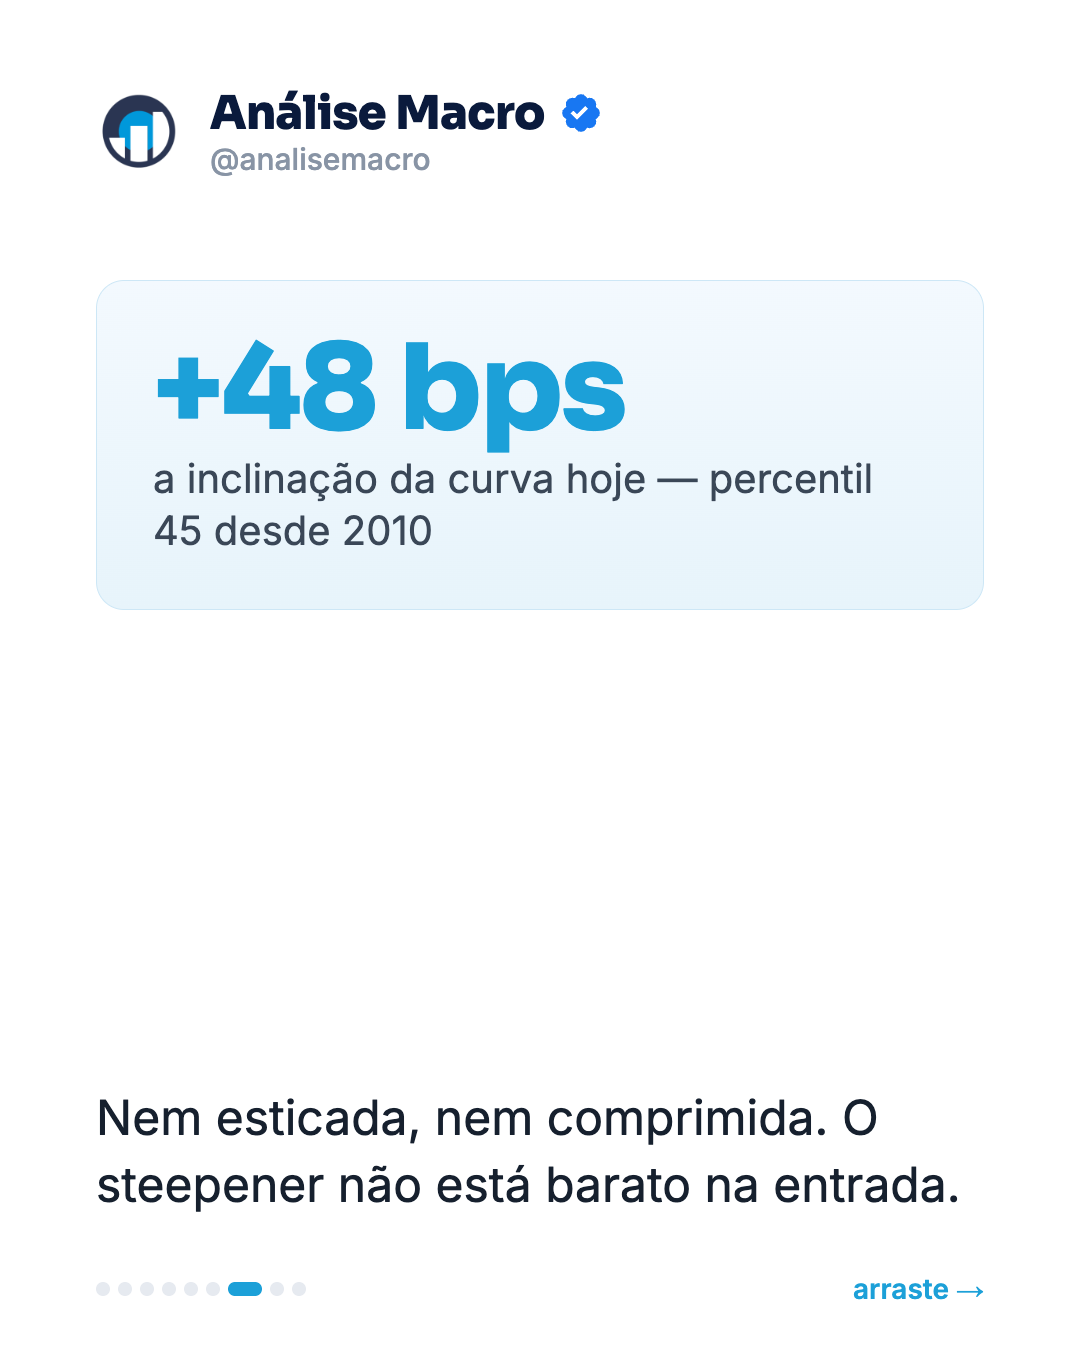
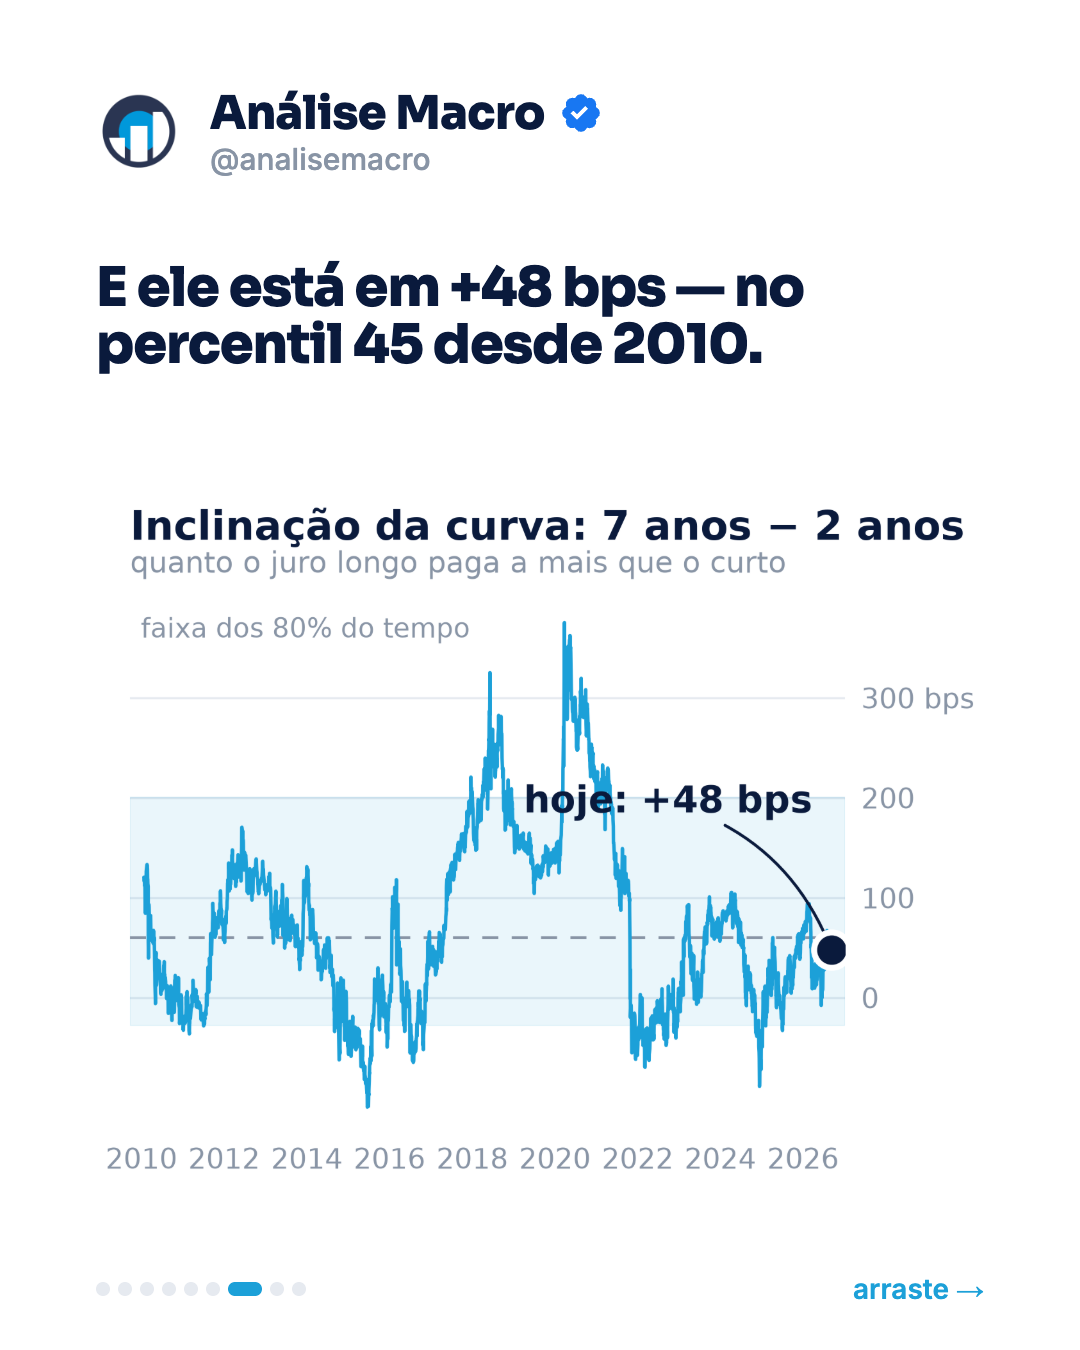
fix: o carrossel não dizia o que o gráfico era
Pergunta do Vitor: "o que esse carrossel está dizendo? o que é esse gráfico?".
A resposta honesta era que o slide não dizia.

Dois erros, e o segundo era meu de origem:

1. Gráfico sem identificação
Ao "limpar para o feed" eu havia removido os títulos dos gráficos — e com eles o
sentido. A capa mostrava uma série de 16 anos sem dizer o que estava no eixo Y.
Agora todo gráfico leva título e subtítulo dizendo o que a MEDIDA é ("Inclinação
da curva: 7 anos − 2 anos" / "quanto o juro longo paga a mais que o curto"). Num
carrossel não há legenda nem texto de apoio: o gráfico se apresenta sozinho.

2. A capa prometia uma história e entregava outra
A manchete fala de quatro gestoras e inflação; o gráfico era sobre inclinação de
curva, que só faz sentido depois de explicar o que é um steepener — no slide 5.
Reordenado: a capa agora traz a divergência do Copom, que é o que a manchete
promete, com cada casa nomeada na ponta da sua linha. Os gráficos de curva vêm
nos slides 6 e 7, depois do steepener explicado.

A regra que passa a organizar a ordem: nenhum gráfico aparece antes de o leitor
ter contexto para lê-lo.

O gráfico da capa é ilustrativo do conceito — as cartas dizem a direção, não uma
trajetória ponto a ponto. Por isso o eixo x é relativo (hoje, +6m, +12m) e não
afirma data nem valor futuro. A ressalva está no .md.

30 testes passando.

diff --git a/divulgacao/carrossel.py b/divulgacao/carrossel.py
@@ -62,6 +62,62 @@ def _limpar(ax, eixo_y_direita: bool = True):
         ax.yaxis.tick_right()
 
 
+def _titulo(ax, titulo: str, medida: str):
+    """Título + o que a medida É — sem isso o gráfico não se explica sozinho.
+
+    Ao "limpar para o feed" eu havia removido os títulos, e a capa virou uma
+    série de 16 anos sem dizer o que estava no eixo. Num carrossel o leitor não
+    tem legenda nem texto de apoio: o gráfico precisa se apresentar.
+    """
+    ax.set_title(titulo, fontsize=30, color=NAVY, fontweight="bold",
+                 loc="left", pad=44)
+    ax.text(0, 1.035, medida, transform=ax.transAxes,
+            fontsize=22, color=MUTED, va="bottom")
+
+
+def grafico_divergencia() -> str:
+    """A capa: o racha do Copom, que é o que a manchete promete.
+
+    Ilustração do CONCEITO — as cartas dizem a direção ("ciclo segue" × "pausa"),
+    não uma trajetória ponto a ponto. Por isso o gráfico não leva escala de data
+    fechada nem afirma valores futuros: mostra a forma da divergência.
+    """
+    import matplotlib
+    matplotlib.use("Agg")
+    import matplotlib.pyplot as plt
+
+    meses = list(range(7))
+    rotulos = ["hoje", "", "+6m", "", "+12m", "", "+18m"]
+    ciclo = [14.00, 13.75, 13.50, 13.25, 13.00, 12.75, 12.50]
+    pausa = [14.00, 14.00, 14.00, 13.75, 13.50, 13.25, 13.00]
+
+    fig, ax = plt.subplots(figsize=(9.6, 7.0))
+    ax.fill_between(meses, ciclo, pausa, color=BLUE, alpha=0.10, zorder=1)
+    ax.plot(meses, ciclo, color=BLUE, lw=6, marker="o", markersize=13,
+            solid_capstyle="round", zorder=3)
+    ax.plot(meses, pausa, color=NAVY, lw=6, marker="o", markersize=13,
+            linestyle=(0, (5, 3)), solid_capstyle="round", zorder=3)
+
+    ax.text(6.15, ciclo[-1], "Bahia\nOccam\nLegacy", fontsize=24, color=BLUE,
+            fontweight="bold", va="center", linespacing=1.2)
+    ax.text(6.15, pausa[-1], "Kinea", fontsize=24, color=NAVY,
+            fontweight="bold", va="center")
+    ax.annotate("a pausa", (2, 14.0), xytext=(1.75, 14.30), fontsize=25,
+                color=NAVY, fontweight="bold", ha="center",
+                arrowprops=dict(arrowstyle="-", color=MUTED, lw=2))
+
+    _limpar(ax, eixo_y_direita=False)
+    ax.set_xticks(meses)
+    ax.set_xticklabels(rotulos)
+    ax.set_yticks([12.5, 13.0, 13.5, 14.0])
+    ax.set_yticklabels(["12,5", "13,0", "13,5", "14,0%"])
+    ax.set_xlim(-0.3, 8.3)
+    ax.set_ylim(12.2, 14.55)
+    _titulo(ax, "Duas leituras da mesma inflação",
+            "para onde vai a Selic, segundo cada casa")
+    return _fig_para_uri(fig)
+
+
 def dados_do_exercicio() -> dict:
     """Roda a parte de DADOS do exercício da edição mais recente.
 
@@ -154,6 +210,8 @@ def grafico_historico(d: dict) -> str:
     ax.margins(x=0.02)
     ax.set_yticks([0, 100, 200, 300])
     ax.set_yticklabels(["0", "100", "200", "300 bps"])
+    _titulo(ax, "Inclinação da curva: 7 anos − 2 anos",
+            "quanto o juro longo paga a mais que o curto")
     return _fig_para_uri(fig)
 
 
@@ -195,18 +253,23 @@ def grafico_curva(d: dict) -> str:
     ax.set_xticks([])
     ax.set_yticks([13.6, 14.0, 14.4])
     ax.set_yticklabels(["13,6", "14,0", "14,4%"])
+    _titulo(ax, "A curva de juros hoje",
+            "taxa dos prefixados do Tesouro, por prazo")
     return _fig_para_uri(fig)
 
 
 def slides(d: dict) -> list[dict]:
-    """Os 9 slides. Abre com CENA (nível 1-2 de consciência), fecha em salvamento.
+    """Os 9 slides, na ordem em que a história se sustenta.
 
-    Bullets, não parágrafos: no feed o texto compete com o polegar. Os dois
-    gráficos são os MESMOS do exercício da edição, redesenhados em retrato.
+    A regra que organiza tudo: **nenhum gráfico aparece antes de o leitor ter
+    contexto para lê-lo**. A capa mostra a divergência entre as casas, que é o
+    que a manchete promete; o gráfico da inclinação da curva só entra depois do
+    slide que explica o que é um steepener — antes disso, "48 bps" não significa
+    nada para quem passa o polegar.
 
-    Sem preço e sem oferta — o público do Instagram está no topo do funil, e
-    entregar nível 5 a quem está no 2 é o erro documentado que rendeu 174
-    mensagens e zero respostas na campanha de Claude Code T2.
+    Bullets, não parágrafos. Sem preço e sem oferta: o público está em nível 1-2
+    de consciência, e nível 5 no primeiro toque é o erro documentado que rendeu
+    174 mensagens e zero respostas na campanha de Claude Code T2.
     """
     bps = f"{d['atual_bps']:.0f}"
     pct = f"{d['percentil']:.0f}"
@@ -214,7 +277,7 @@ def slides(d: dict) -> list[dict]:
         {
             "kind": "capa",
             "hook": "Quatro gestoras leram a *mesma* inflação. Duas fizeram a aposta oposta.",
-            "src": grafico_historico(d),
+            "src": grafico_divergencia(),
         },
         {
             "kind": "lista",
@@ -251,30 +314,30 @@ def slides(d: dict) -> list[dict]:
             "variant": "diamond",
             "items": [
                 "Bahia e Occam carregam o mesmo trade",
-                "*Steepener:* aposta em que o juro longo sobe mais que o curto",
+                "*Steepener:* ganham se o juro longo subir mais que o curto",
                 "A pausa da Kinea é o cenário em que a perna curta perde",
             ],
         },
         {
             "kind": "capa",
-            "hook": "Dá para medir *quanto* dessa aposta já está no preço 👇",
+            "hook": "É esse *degrau* que elas estão comprando 👇",
             "hint": False,
             "src": grafico_curva(d),
         },
         {
-            "kind": "dado",
-            "value": f"+{bps} bps",
-            "label": f"a inclinação da curva hoje — percentil {pct} desde 2010",
-            "note": "Nem esticada, nem comprimida. O steepener não está barato na entrada.",
+            "kind": "capa",
+            "hook": f"E ele está em +{bps} bps — no *percentil {pct}* desde 2010.",
+            "hint": False,
+            "src": grafico_historico(d),
         },
         {
             "kind": "lista",
-            "title": "Por que ler as *doze* juntas",
+            "title": "O que isso quer dizer",
             "variant": "diamond",
             "items": [
-                "Uma carta mostra a visão de uma casa",
-                "Doze mostram onde o mercado concorda",
-                "E onde a mesma leitura vira apostas incompatíveis",
+                "Nem esticado, nem comprimido: o degrau está na média histórica",
+                "Ou seja, a aposta *não* está barata na entrada",
+                "Dá para medir isso em Python, com dado público",
             ],
         },
         {

diff --git a/divulgacao/carrossel-instagram.md b/divulgacao/carrossel-instagram.md
@@ -24,30 +24,35 @@ que rendeu 174 mensagens e zero respostas em Claude Code T2.
 
 ## Os 9 slides
 
-**Bullets, não parágrafos** (pedido do Vitor em 09/09): no feed o texto compete com
-o polegar. E os dois gráficos são os **mesmos do exercício da edição**, redesenhados
-em retrato — não ilustrações.
+**A regra que organiza a ordem:** nenhum gráfico aparece antes de o leitor ter
+contexto para lê-lo. Foi o erro da versão anterior — a capa trazia a série da
+inclinação da curva enquanto a manchete falava de inflação e gestoras, e "48 bps"
+não significa nada para quem passa o polegar sem saber do que é a medida.
 
 | # | Tipo | Conteúdo |
 |---|---|---|
-| 1 | capa + **gráfico real** | "Quatro gestoras leram a mesma inflação. Duas fizeram a aposta oposta." — série da inclinação desde 2010, com o ponto de hoje |
-| 2 | lista ✓ | No que elas concordam: 4 bullets |
+| 1 | capa + gráfico | A divergência do Copom: duas trajetórias de Selic, cada casa nomeada na ponta da linha |
+| 2 | lista ✓ | No que elas concordam — 4 bullets |
 | 3 | lista | Onde racha: o Copom — 3 bullets |
 | 4 | definição | A diferença não é sobre inflação: Legacy/Occam × Kinea |
-| 5 | lista | E isso custa dinheiro — o steepener explicado em um bullet |
-| 6 | capa + **gráfico real** | "Dá para medir quanto dessa aposta já está no preço" — curva pré de hoje |
-| 7 | dado | **+48 bps** — a inclinação hoje, percentil 45 desde 2010 |
-| 8 | lista | Por que ler as doze juntas — 3 bullets |
+| 5 | lista | E isso custa dinheiro — o *steepener* explicado aqui, **antes** dos gráficos de curva |
+| 6 | capa + gráfico | "É esse degrau que elas estão comprando" — a curva de hoje |
+| 7 | capa + gráfico | "+48 bps, percentil 45" — a inclinação contra a própria história |
+| 8 | lista | O que isso quer dizer — a aposta não está barata na entrada |
 | 9 | CTA | Comente `GESTORAS` + pergunta |
+
+**Todo gráfico leva título e subtítulo dizendo o que a medida é** (ex.: "Inclinação
+da curva: 7 anos − 2 anos" / "quanto o juro longo paga a mais que o curto"). Num
+carrossel não há legenda nem texto de apoio: o gráfico precisa se apresentar.
 
 ⚠ **Os números vêm do próprio exercício.** `carrossel.py` reexecuta o bloco de
 código da edição mais recente (cortando antes da parte de gráfico) e lê as
 variáveis de lá. Se o carrossel dissesse 48 bps e o PDF outra coisa, a
 inconsistência seria checável por quem lê os dois.
 
-⚠ O exercício é reescrito pelo modelo a cada edição, então os **nomes das
-variáveis mudam**. `dados_do_exercicio()` normaliza por alias e **falha alto** se
-faltar algo essencial — melhor do que um KeyError no meio do render.
+⚠ O exercício é reescrito pelo modelo a cada edição e os **nomes das variáveis
+mudam**. `dados_do_exercicio()` normaliza por alias e **falha alto** se faltar algo
+essencial — melhor do que um KeyError no meio do render.
 
 ## Legenda do post
 
@@ -88,11 +93,11 @@ faltar algo essencial — melhor do que um KeyError no meio do render.
 
 ## Sobre os gráficos
 
-Os dois gráficos são **dados reais**, gerados pelo mesmo código do exercício que
-está no PDF da edição: curva prefixada do Tesouro Direto em 08/09/2026 e a série da
-inclinação 7a−2a desde 2010. A inclinação de **+48 bps no percentil 45** é medida,
-não estimada.
+Os slides 6 e 7 são **dados reais**, do mesmo código do exercício que está no PDF:
+curva prefixada do Tesouro Direto em 08/09/2026 e a série da inclinação 7a−2a desde
+2010. A inclinação de **+48 bps no percentil 45** é medida, não estimada.
 
-Isso é diferente da versão anterior deste carrossel, que trazia uma ilustração de
-duas trajetórias de Selic — conceitualmente correta, mas que nenhuma carta publica
-ponto a ponto. A troca elimina a ressalva que era necessária ali.
+⚠ **O gráfico da capa é ilustrativo do conceito.** As cartas dizem a direção
+("ciclo segue" × "pausa"), não uma trajetória de Selic ponto a ponto. Por isso o
+eixo x é relativo (hoje, +6m, +12m, +18m) e não afirma data nem valor futuro —
+mostra a forma da divergência. Se alguém do mercado perguntar, essa é a resposta.
